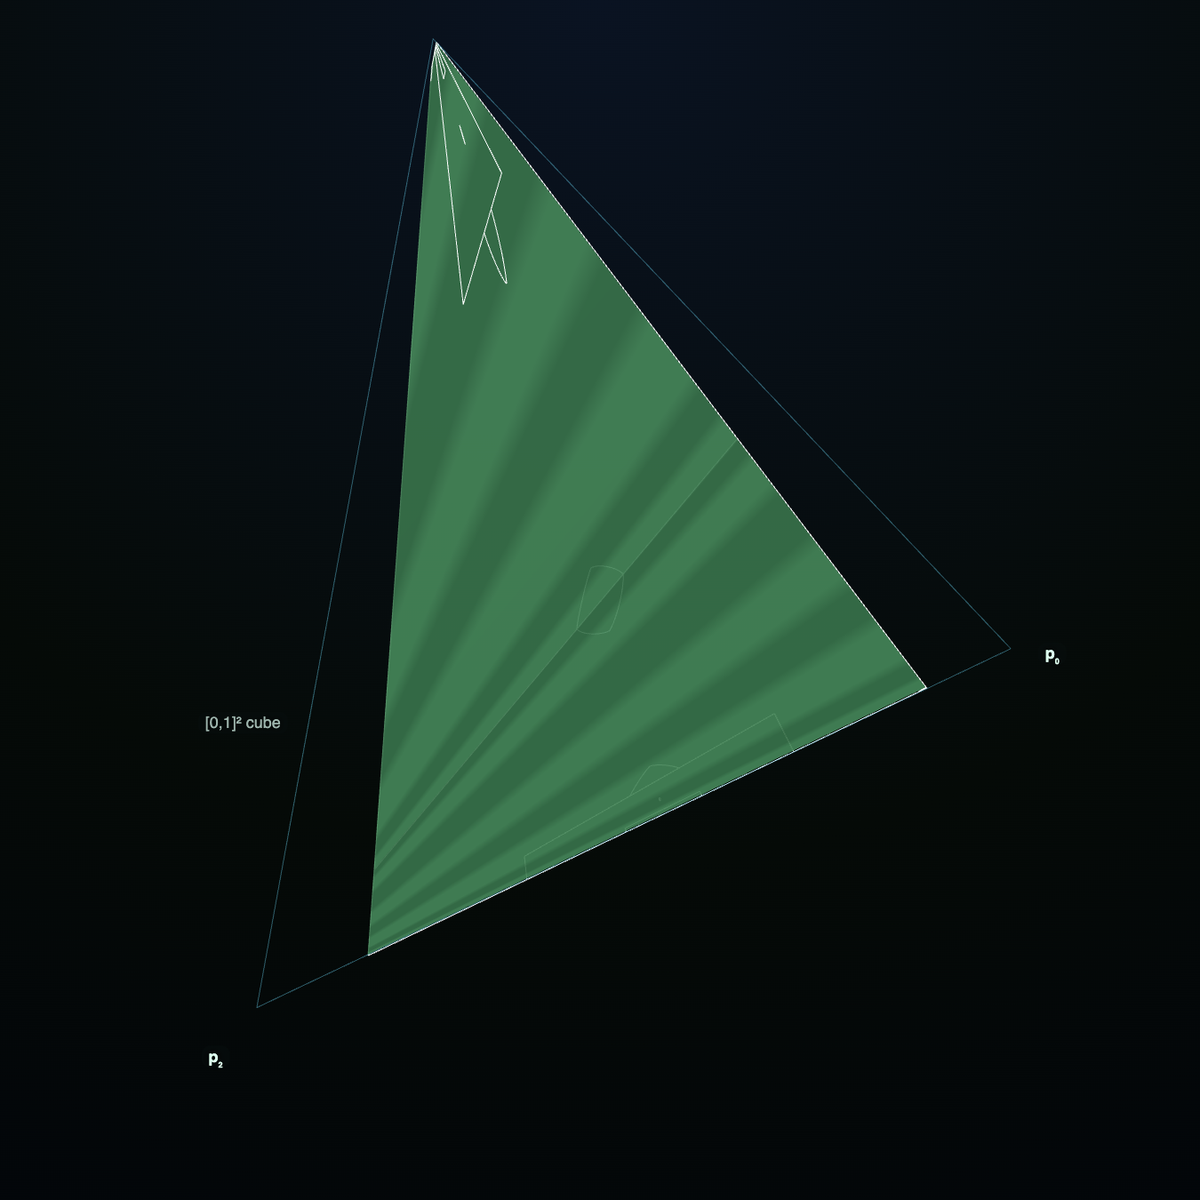
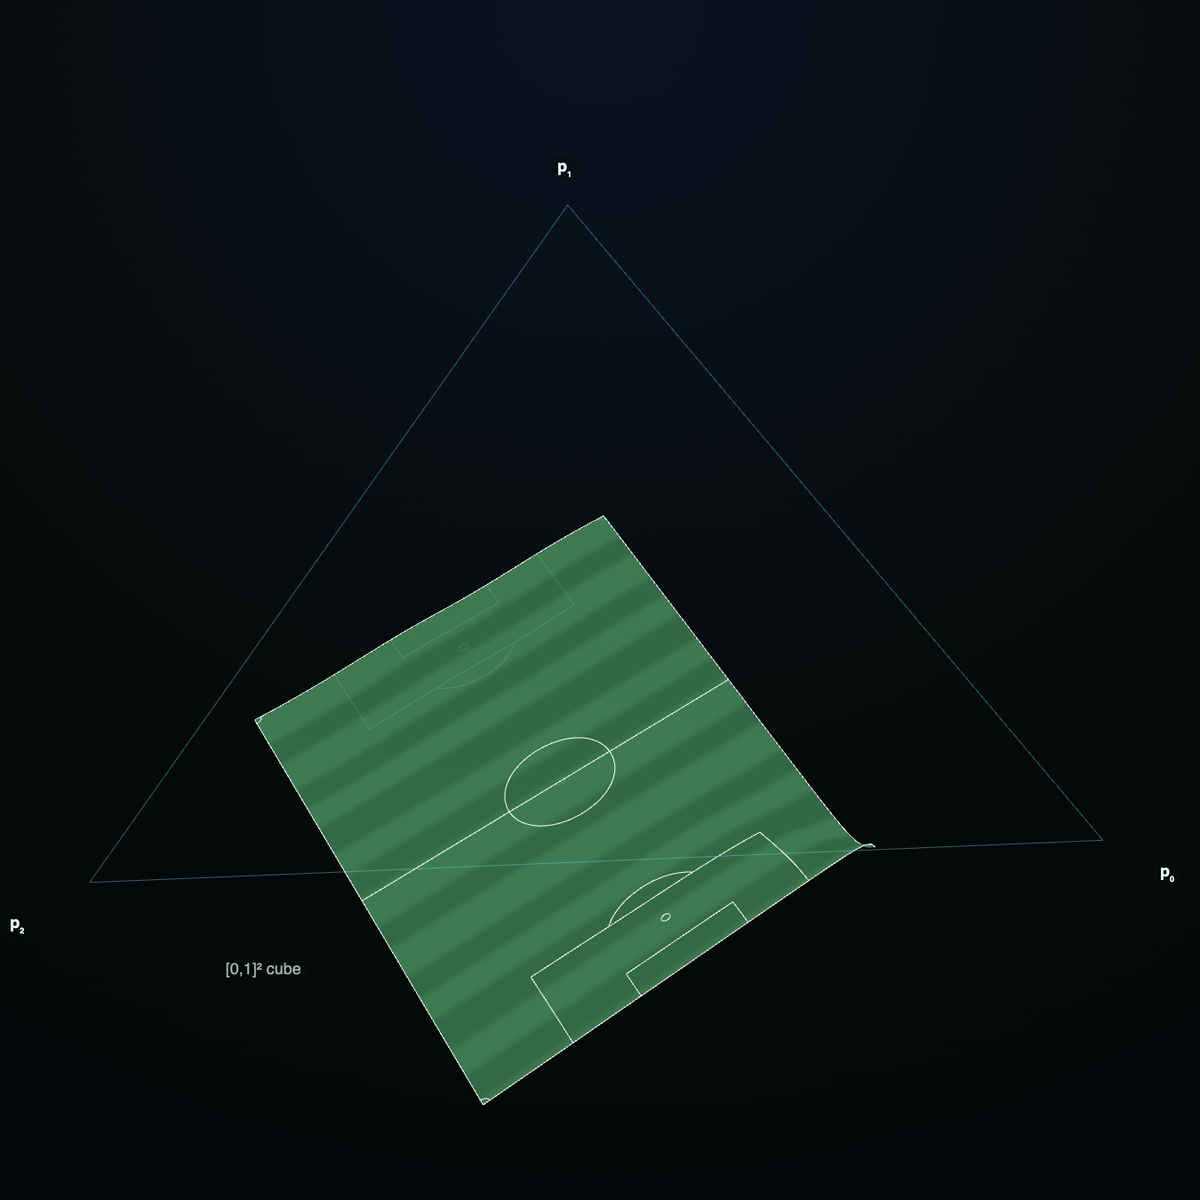
docs: square pitch that fills the simplex + markings on the whole time
- Pitch now maps across the full unit square (both axes), so the field reads as
  square and fills the simplex like the grid does, instead of a thin rectangle.
- Markings snap to full opacity as soon as the grass fades in and hold there,
  only releasing at the very tail — the white lines (the only spatial reference)
  stay on the entire time the field is visible. During the crossfade the rainbow
  grid returns subtly over the pitch.

Changed region(s): [[0.1542, 0.0308, 0.7708, 0.925], [0.185, 0.8017, 0.2467, 0.8325], [0.4933, 0.6167, 0.5242, 0.6475]]

diff --git a/docs/grid-to-pitch-simplex.html b/docs/grid-to-pitch-simplex.html
@@ -154,7 +154,9 @@ marks.push(lineS(105,13.84,88.5,13.84),lineS(88.5,13.84,88.5,54.16),lineS(88.5,5
 marks.push(lineS(105,24.84,99.5,24.84),lineS(99.5,24.84,99.5,43.16),lineS(99.5,43.16,105,43.16));
 marks.push(arcS(94,34,0.7,0,2*Math.PI,18)); marks.push(arcS(94,34,9.15,Math.PI-0.927,Math.PI+0.927,42));
 marks.push(arcS(0,0,1,0,Math.PI/2,16),arcS(L,0,1,Math.PI/2,Math.PI,16),arcS(L,Wm,1,Math.PI,1.5*Math.PI,16),arcS(0,Wm,1,1.5*Math.PI,2*Math.PI,16));
-const MG=0.06, scl=(1-2*MG)/L, y0=0.5-0.5*scl*Wm; const m2u=(X,Y)=>[MG+X*scl,y0+Y*scl];
+// Fill the whole unit square (both axes) so the pitch covers the simplex like
+// the grid does — the field reads as square rather than a tall thin rectangle.
+const MG=0.045; const m2u=(X,Y)=>[MG+(1-2*MG)*X/L, MG+(1-2*MG)*Y/Wm];
 
 const pitchObjs=[]; // {geom, uu, n, sq, sim, pos, lift}
 function addPitch(uPts, geom, lift){
@@ -194,10 +196,10 @@ function applyMorph(m){
   for(const d of pitchObjs){for(let i=0;i<d.n*3;i++)d.pos[i]=d.sq[i]+(d.sim[i]-d.sq[i])*m;d.geom.attributes.position.needsUpdate=true;d.geom.computeBoundingSphere();}
 }
 function applyFade(w){gridLineMat.opacity=0.55*(1-w);gridPtMat.opacity=0.82*(1-w);grassMat.opacity=0.92*w;
-  // markings persist longer than the grass: thin white lines read worse at low
-  // opacity, so fade them on a concave curve so they stay crisp until the field
-  // has nearly gone (and appear promptly on the way in).
-  markMat.opacity=Math.pow(w,0.4);}
+  // The pitch markings are the only spatial reference, so keep them on for the
+  // entire time the field is visible: snap to full opacity as soon as the grass
+  // has faded in, hold there, and only let them go at the very tail.
+  const t=Math.min(1,Math.max(0,(w-0.03)/0.15)); markMat.opacity=t*t*(3-2*t);}
 
 // timeline: 0 cube-grid -> rise to simplex -> crossfade to pitch -> flatten to field -> crossfade back
 function timeline(tau){